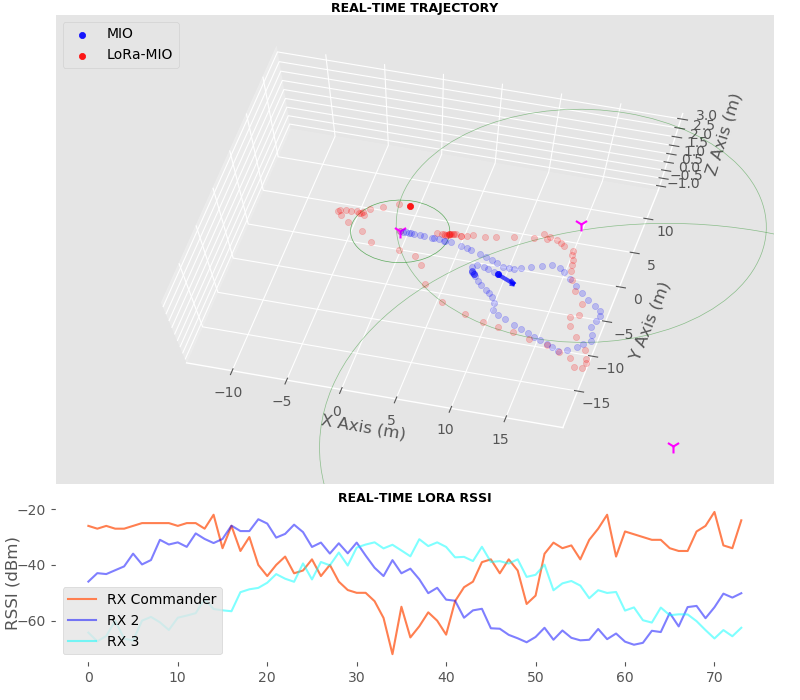
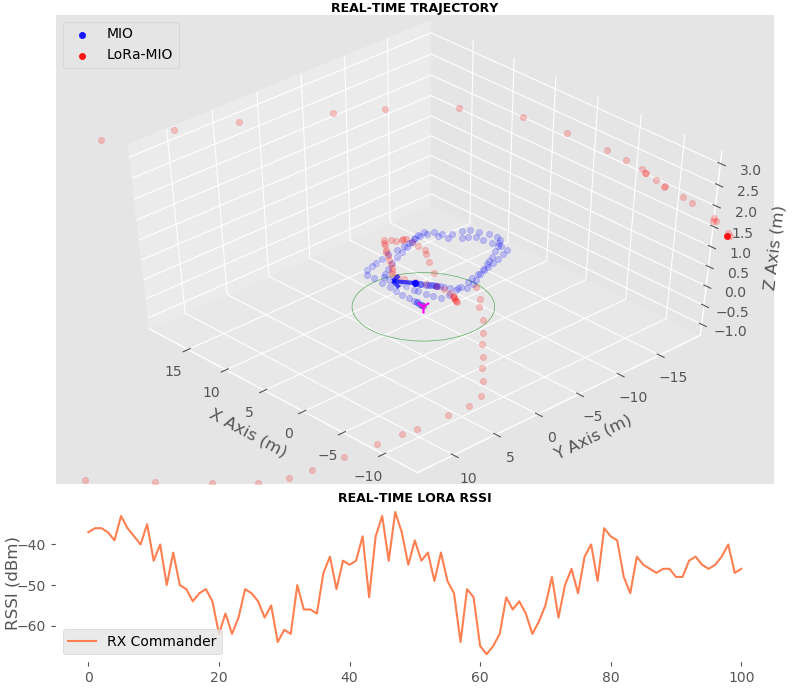
Implemented convolve & savgol_filter based RSSI average filtering

diff --git a/PF.py b/PF.py
@@ -24,6 +24,7 @@ from matplotlib import gridspec
 
 # testing only
 from scipy.stats import norm, gamma, uniform
+from scipy.signal import savgol_filter
 import skimage.draw
 
 
@@ -53,7 +54,7 @@ prior_fn = independent_sample(
 
 
 def main():
-    fuse_engine = PF_Fusion(anchor=0, num_particle=10000, resample_rate=0.001, visual=True)
+    fuse_engine = PF_Fusion(anchor=1, num_particle=10000, resample_rate=0.005, visual=True)
 
     for filename in os.listdir('TEST'):
         if filename.endswith('.txt'):
@@ -173,10 +174,10 @@ class PF_Fusion():
         self.pf = ParticleFilter(
             prior_fn=prior_fn,
             observe_fn=lambda x: measurement(x, self.dt, self.anchor),
-            resample_fn=stratified_resample,
+            resample_fn=multinomial_resample,
             n_particles=num_particle,
             dynamics_fn=lambda x: constantAW(x, self.dt),
-            noise_fn=lambda x: cauchy_noise(x, sigmas=[0.00, 0.00, 0.0000, 0.000, 0.000000001, 0.0000005]),
+            noise_fn=lambda x: cauchy_noise(x, sigmas=[0.00001, 0.00001, 0.00000001, 0.0000001, 0.00000001, 0.0000005]),
             weight_fn=lambda x, y: squared_error(x, y, sigma=2),
             resample_proportion=resample_rate,
             column_names=columns,
@@ -191,7 +192,7 @@ class PF_Fusion():
         self.out_pred_array = []
         self.final_list = []
         self.sigma_list = []
-        self.rssi_list, self.rssi_list2, self.rssi_list3 = [], [], []
+        self.rssi_list, self.smoothed_rssi_list, self.rssi_list2, self.rssi_list3 = [], [], [], []
 
         # Visualisation init
         self.blit = blit
@@ -242,6 +243,7 @@ class PF_Fusion():
             msg_list = msg_list[:-self.anchor]
 
         self.rssi_list.extend(rssis)
+        self.smoothed_rssi_list.append(self.smoother(self.rssi_list))
         if self.anchor >= 2:
             self.rssi_list2.append(rssis[1])
         if self.anchor >= 3:
@@ -311,7 +313,7 @@ class PF_Fusion():
             final_xyZ.append(final_pose[-1] * math.pi/180)
             # Populate ONE Rssi for a 'gap' of Poses
             if self.anchor:
-                final_xyZ.append(self.smoother(self.rssi_list))
+                final_xyZ.append(self.smoothed_rssi_list[-1])
             if self.rssi_list2:
                 final_xyZ.append(self.smoother(self.rssi_list2))
             if self.rssi_list3:
@@ -330,14 +332,31 @@ class PF_Fusion():
             # print("PF per round takes %.6f s" % (time.time() - start_t))
 
 
-    def smoother(self, lst):
-        if len(lst) > 3:
-            ave_rssi = 0.6 * lst[-1] + 0.25*lst[-2] + 0.15*lst[-3]
-        elif len(lst) == 0:
-            return []
+    def smoother(self, lst, window_size=5, mode='conv'):
+
+        if mode == 'conv':
+            if len(lst) >= window_size:
+                window = np.ones(int(window_size)) / float(window_size)
+                y = np.convolve(np.asarray(lst), window, 'valid')
+                #print(y)
+                return y[-1]
+            else:
+                return lst[-1]
+        elif mode == 'savgol':
+            if len(lst) >= window_size:
+                y = savgol_filter(np.asarray(lst), window_size, 3)
+                #print(y)
+                return y[-2]
+            else:
+                return lst[-1]
         else:
-            ave_rssi = lst[-1]
-        return float(ave_rssi)
+            if len(lst) > 3:
+                ave_rssi = 0.6 * lst[-1] + 0.25 * lst[-2] + 0.15 * lst[-3]
+            elif len(lst) == 0:
+                return []
+            else:
+                ave_rssi = lst[-1]
+            return float(ave_rssi)
 
 
     def rt_show(self, t_limit=0.85):
@@ -369,7 +388,7 @@ class PF_Fusion():
 
         # Plot Range
         if self.anchor:
-            radius = 10 ** ((self.rssi_list[-1] + BETA) / ALPHA)
+            radius = 10 ** ((self.smoothed_rssi_list[-1] + BETA) / ALPHA)
             circle1 = plt.Circle((R1[0, 0], R1[0, 1]), radius, color='g', fill=False, alpha=.6, linewidth=0.5)
             self.cir1 = self.ax21.add_patch(circle1)
             art3d.pathpatch_2d_to_3d(circle1, z=0, zdir="z")
@@ -392,6 +411,7 @@ class PF_Fusion():
         # self.ax22.set_ylim(-90, -10)
         if self.anchor:
             self.ax22.plot(self.rssi_list, 'coral', label='RX Commander')
+            self.ax22.plot(self.smoothed_rssi_list, 'green', label='RX Cmd Smoothed')
         if self.rssi_list2:
             self.ax22.plot(self.rssi_list2, 'b', alpha=.5, label='RX 2')
         if self.rssi_list3:

diff --git a/EKF.py b/EKF.py
@@ -6,6 +6,7 @@ from math import sqrt
 from numpy.random import randn
 from filterpy.kalman import ExtendedKalmanFilter
 from numpy import eye, array, asarray
+from scipy.signal import savgol_filter
 from eulerangles import *
 from utility import *
 from plot_util import *
@@ -24,7 +25,7 @@ R1 = np.array([[0., 0., 0.],
                [5., 4., 0.],
                [2., -2.5, 0.]])
 # Path Loss Model params
-ALPHA = -55#-45.712  # -28.57 * 1.6
+ALPHA = -50#-45.712  # -28.57 * 1.6
 BETA = -5.06
 SIGMA = 4.887
 
@@ -325,7 +326,7 @@ class EKF_Fusion():
         self.final_list = []
         self.sigma_list = []
         self.angle = 0
-        self.rssi_list, self.rssi_list2, self.rssi_list3 = [], [], []
+        self.rssi_list, self.smoothed_rssi_list, self.rssi_list2, self.rssi_list3 = [], [], [], []
         self.vec = np.array([[0], [1], [0], [0]], dtype=float)
         self.odom_quat = self.vec
         
@@ -404,6 +405,7 @@ class EKF_Fusion():
             msg_list = msg_list[:-self.anchor]
 
         self.rssi_list.extend(rssis)
+        self.smoothed_rssi_list.append(self.smoother(self.rssi_list))
         if self.anchor >= 2:
             self.rssi_list2.append(rssis[1])
         if self.anchor >= 3:
@@ -471,7 +473,7 @@ class EKF_Fusion():
             
             # Populate ONE Rssi for a 'gap' of Poses
             if self.anchor:
-                final_xy.append(float(self.rssi_list[-1]))
+                final_xy.append(float(self.smoothed_rssi_list[-1]))  # Utilize Smoothed RSSI for Fusion
             if self.rssi_list2:
                 final_xy.append(float(self.rssi_list2[-1]))
             if self.rssi_list3:
@@ -505,7 +507,33 @@ class EKF_Fusion():
             #print("EKF per round takes %.6f s" % (time.time() - start_t))
 
 
-        
+    def smoother(self, lst, window_size=5, mode='conv'):
+
+        if mode == 'conv':
+            if len(lst) >= window_size:
+                window = np.ones(int(window_size)) / float(window_size)
+                y = np.convolve(np.asarray(lst), window, 'valid')
+                #print(y)
+                return y[-1]
+            else:
+                return lst[-1]
+        elif mode == 'savgol':
+            if len(lst) >= window_size:
+                y = savgol_filter(np.asarray(lst), window_size, 3)
+                #print(y)
+                return y[-2]
+            else:
+                return lst[-1]
+        else:
+            if len(lst) > 3:
+                ave_rssi = 0.6 * lst[-1] + 0.25 * lst[-2] + 0.15 * lst[-3]
+            elif len(lst) == 0:
+                return []
+            else:
+                ave_rssi = lst[-1]
+            return float(ave_rssi)
+
+
     def sim_run(self, anchor=1):
         start_t = time.time()
         
@@ -589,7 +617,7 @@ class EKF_Fusion():
 
         # Plot Range
         if self.anchor:
-            radius = 10 ** ((self.rssi_list[-1] + BETA) / ALPHA)
+            radius = 10 ** ((self.smoothed_rssi_list[-1] + BETA) / ALPHA)
             circle1 = plt.Circle((R1[0, 0], R1[0, 1]), radius, color='g', fill=False, alpha=.6, linewidth=0.5)
             self.cir1 = self.ax21.add_patch(circle1)
             art3d.pathpatch_2d_to_3d(circle1, z=0, zdir="z")
@@ -612,6 +640,7 @@ class EKF_Fusion():
         #self.ax22.set_ylim(-90, -10)
         if self.anchor:
             self.ax22.plot(self.rssi_list, 'coral', label='RX Commander')
+            self.ax22.plot(self.smoothed_rssi_list, 'green', label='RX Cmd Smoothed')
         if self.rssi_list2:
             self.ax22.plot(self.rssi_list2, 'b', alpha=.5, label='RX 2')
         if self.rssi_list3:

diff --git a/replay.py b/replay.py
@@ -125,14 +125,6 @@ class EKF_Fusion_MultiRX_AngularV(EKF_Fusion):
             measure_noise = np.hstack((measure_noise, np.array([SIGMA ** 2])))
         self.my_kf.R = np.diag(measure_noise)
 
-    def smoother(self, lst):
-        if len(lst) > 3:
-            ave_rssi = 0.6 * lst[-1] + 0.25*lst[-2] + 0.15*lst[-3]
-        elif len(lst) == 0:
-            return []
-        else:
-            ave_rssi = lst[-1]
-        return float(ave_rssi)
 
     def rt_run(self, gap):
 
@@ -361,7 +353,7 @@ class EKF_Fusion_ConstantA(EKF_Fusion_MultiRX_AngularV):
             self.my_kf.R[1, 1] = 0.001  # self.sigma_list[-g][1]*1000
             self.my_kf.R[2, 2] = 0.0001  # self.sigma_list[-g][-1]**2 # Sigma of ROT_Z
             for rowcol in range(3, 3+self.anchor):
-                self.my_kf.R[rowcol, rowcol] = 4 * SIGMA**2
+                self.my_kf.R[rowcol, rowcol] = 0.2 * SIGMA**2
             # Refresh State Transition Martrix: F
             self.my_kf.F = eye(6) + array([[0, 0, -self.dt * self.my_kf.x[3, 0] * math.sin(self.my_kf.x[2, 0]) - 0.5*self.dt**2 * self.my_kf.x[5, 0] * math.sin(self.my_kf.x[2, 0]),
                                             self.dt * math.cos(self.my_kf.x[2, 0]), 0, 0.5*self.dt**2 * math.cos(self.my_kf.x[2, 0])],
@@ -416,7 +408,7 @@ def synthetic_rssi(data_len, period=1., Amp=20., phase=0., mean=-43., noiseAmp=0
 
 if __name__=="__main__":
     
-    ekf = EKF_Fusion_ConstantA(anchor=0)
+    ekf = EKF_Fusion_ConstantA(anchor=1)
     #ekf = EKF_Fusion_PosVel(anchor=0)
 
     # TODO Sync Multiple RX RSSIs and Replay
@@ -460,8 +452,8 @@ if __name__=="__main__":
 
                 #plt.pause(0.01)
                 time.sleep(.001)
-               
-            ekf.fig2.savefig("replay_rx.png")
+
+            ekf.fig2.savefig("replay_ekf.png")
 
     '''
             ekf.reset_view()

diff --git a/README.md b/README.md
@@ -10,14 +10,14 @@ python3 rx_lora.py P2P 10
 
 Two rounds of left-hand search:
 
-![left2](https://github.com/zdai257/LoRaRX/blob/main/replay_pf.png)
+![left2](https://github.com/zdai257/LoRaRX/blob/main/demo0.png)
 
 ### Extended Kalman Filter
 
-Left-Hand Search:
+Two rounds of left-hand search with Constant-Angular-Velocity-and-Acceleration EKF which is decoupled from RSSI-based range:
 
 ![live_plot](https://github.com/zdai257/LoRaRX/blob/main/demo1.png)
 
-Left-Hand Search by Two Rounds:
+Two rounds of left-Hand Search using the same model as above with heavy RSSI average filtering:
 
 ![sim_ekf_plot](https://github.com/zdai257/LoRaRX/blob/main/demo2.png)
